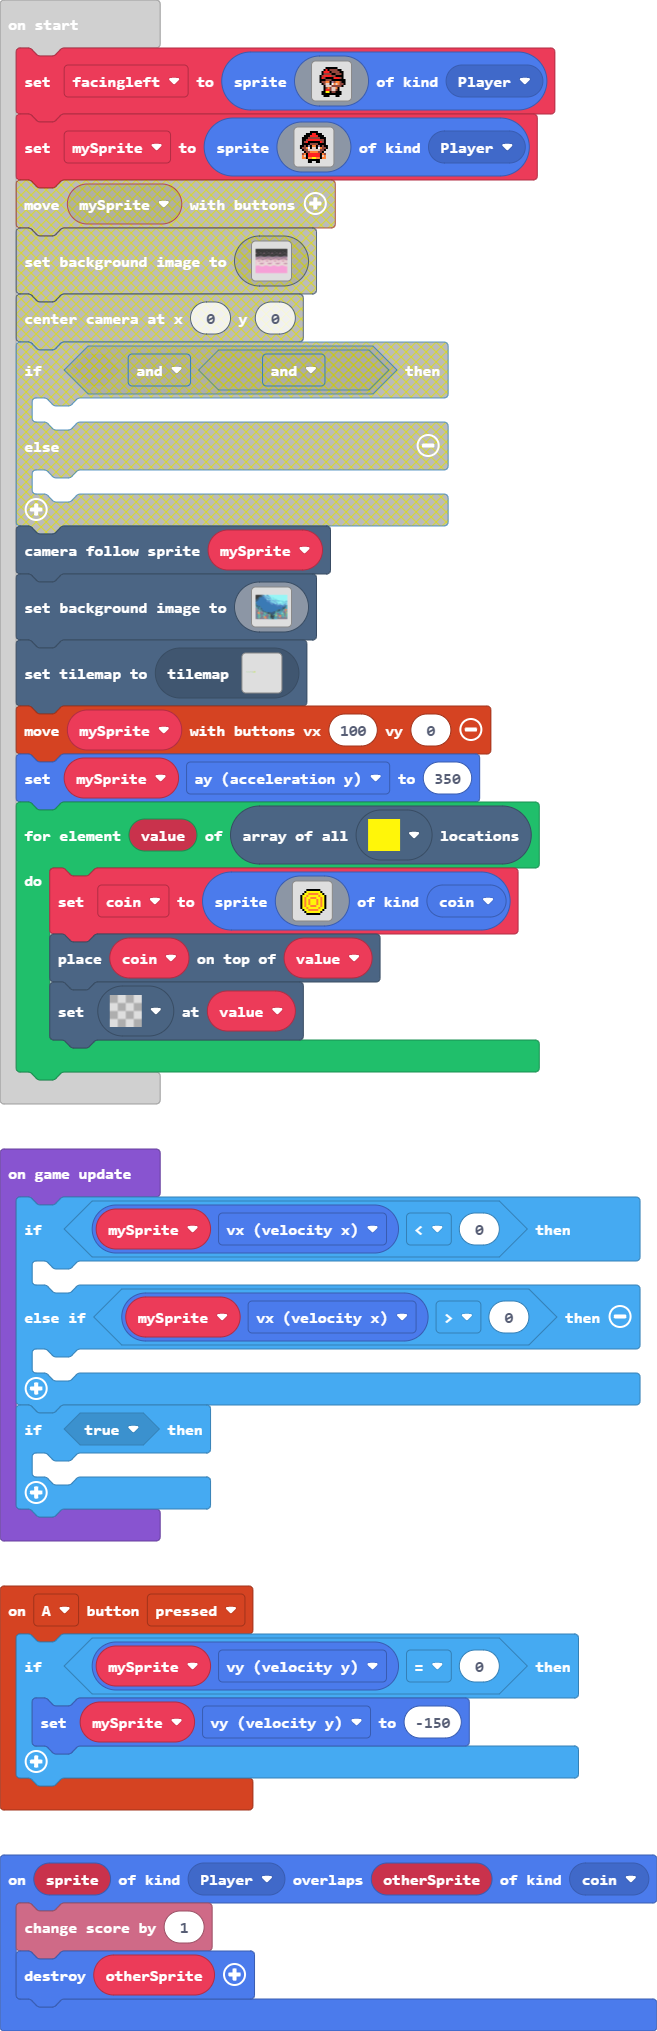
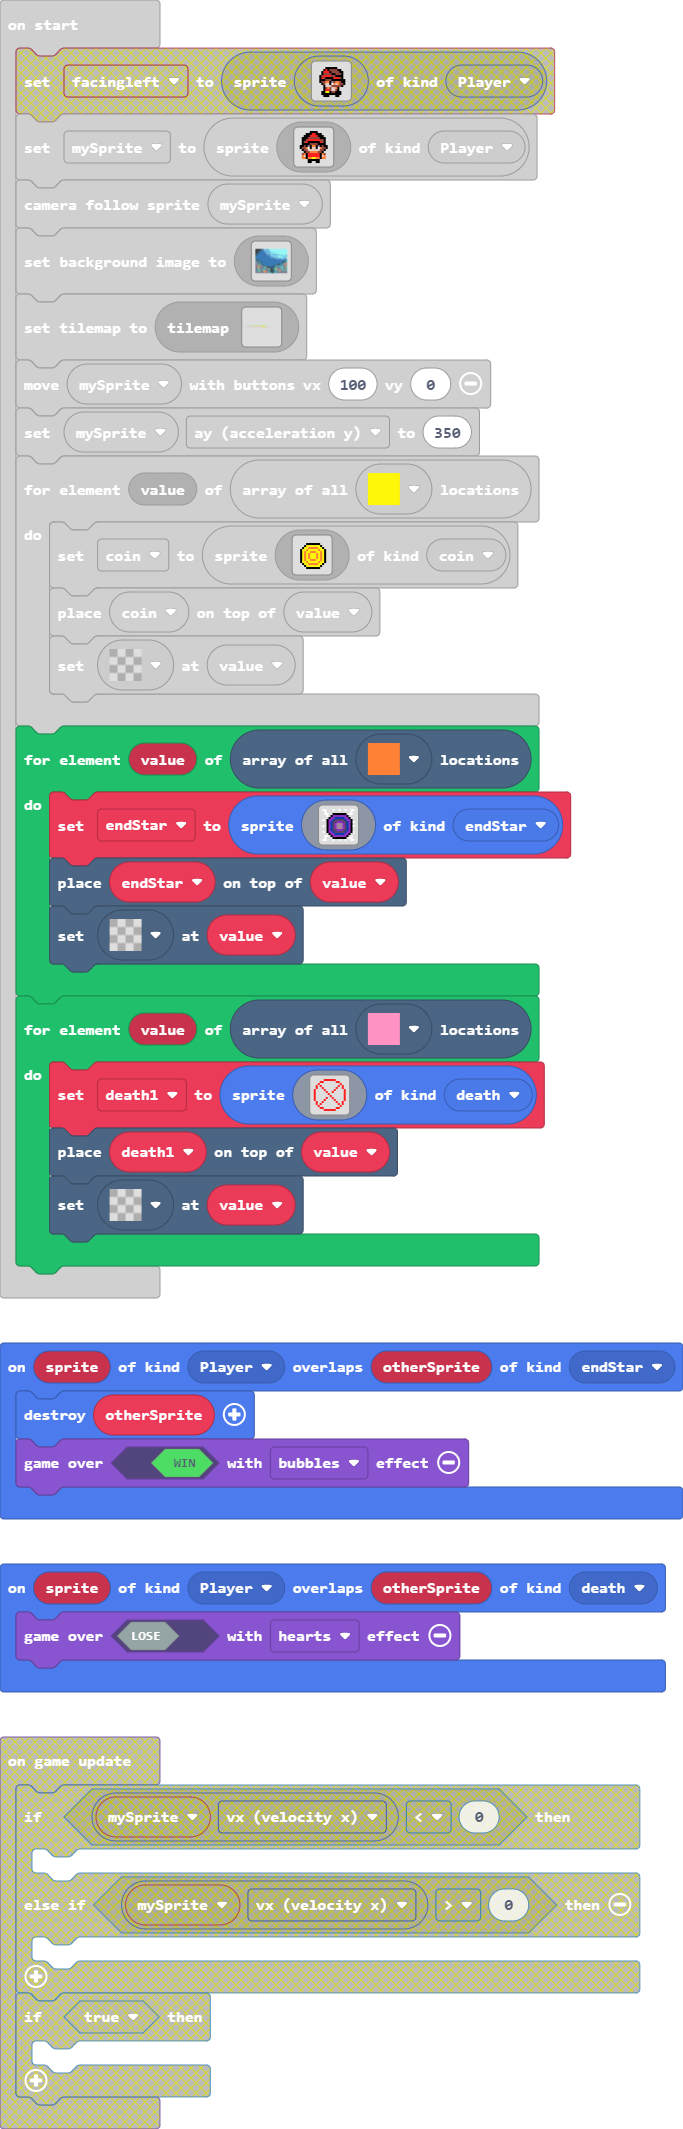
Update main.blocks, main.ts, tilemap.g.jres, tilemap.g.ts

diff --git a/tilemap.g.ts b/tilemap.g.ts
@@ -6,32 +6,76 @@ namespace myTiles {
     export const tile1 = image.ofBuffer(hex``);
     //% fixedInstance jres blockIdentity=images._tile
     export const tile2 = image.ofBuffer(hex``);
+    //% fixedInstance jres blockIdentity=images._tile
+    export const tile3 = image.ofBuffer(hex``);
+    //% fixedInstance jres blockIdentity=images._tile
+    export const tile4 = image.ofBuffer(hex``);
+    //% fixedInstance jres blockIdentity=images._tile
+    export const tile5 = image.ofBuffer(hex``);
 
     helpers._registerFactory("tilemap", function(name: string) {
         switch(helpers.stringTrim(name)) {
+            case "level1":
+            case "level1":return tiles.createTilemap(hex`1000100000000000000000000000000000000000000000000000000000000000000000000000000000000000000000000000000000000000000000000000000000000000000000000000000000000000000000000000000000000000000000000000000000000000000000000000000000000000000000000000000000000000000000000000000000000000000000000000000000000000000000000000000000000000000000000000000000000000000000000000000000000000000000000000000000000000000000000000000000000000000000000000000000000000000000000000000000000000000000000000000000000000000000000000000000000000`, img`
+. . . . . . . . . . . . . . . . 
+. . . . . . . . . . . . . . . . 
+. . . . . . . . . . . . . . . . 
+. . . . . . . . . . . . . . . . 
+. . . . . . . . . . . . . . . . 
+. . . . . . . . . . . . . . . . 
+. . . . . . . . . . . . . . . . 
+. . . . . . . . . . . . . . . . 
+. . . . . . . . . . . . . . . . 
+. . . . . . . . . . . . . . . . 
+. . . . . . . . . . . . . . . . 
+. . . . . . . . . . . . . . . . 
+. . . . . . . . . . . . . . . . 
+. . . . . . . . . . . . . . . . 
+. . . . . . . . . . . . . . . . 
+. . . . . . . . . . . . . . . . 
+`, [myTiles.transparency16], TileScale.Sixteen);
             case "niveau1":
[2 lines of base64/hex data omitted]
 ...............................................................................................................................................................................................................................................................
-.........................................................................2.....................................................................................................................................................................................
-........................................................................222....................................................................................................................................................................................
-.......................................................................22.2....................................................................................................................................................................................
-....2...2..............2..............................................22..2....................................................................................................................................................................................
-.222222222..........22222.............2...................22222222222222...2...................................................................................................................................................................................
-..............2..2...........2.....222222................22....................................................................................................................................................................................................
-.............222222.......2222222.2........2....22.......22....................................................................................................................................................................................................
-..........................................222222222...22222222222222222222222..................................................................................................................................................................................
-.................................2.............................................................................................................................................................................................................................
+2........................................................................2...............................................2222222222222222222222222222222222222222222222........................................................................................
+2.......................................................................222............2...............................................................................22......................................................................................
+2......................................................................22.2..........2................................2..................................................22....................................................................................
+2...2...2..............2...................................2..........22..2........2.................................22....................................................22..................................................................................
+2222222222..........22222.............2...................22222222222222...2........2...2...........................222.......................................................2222.............................................................................
+..............2..2...........2.....222222................22......................2....2...2........................2222......................................................2.................................................................................
+.............222222.......2222222.2........2....22.......22....................2222222222222......2.......2....2..22222.....................................................2..................................................................................
+..........................................222222222...22222222222222222222222.................2222222222222222222222222....................................................2...................................................................................
+.................................2........................................................................................................................................2....................................................................................
+.....................................................................................................................................2...2...2...2.......................2.....................................................................................
+....................................................................................................................................2...2...2...2...22..2...............2......................................................................................
+...................................................................................................................................2...2...2...2...2...2...............2.......................................................................................
+..................................................................................................................................2...2...2...2...2...2...............2........................................................................................
+.................................................................................................................................2...2...2...2...2...2...............2.........................................................................................
+................................................................................................................................2...2...2...2...2...2...............2..........................................................................................
+.......................................................................................................................22222222222222222222222222222.....22222222222...........................................................................................
 ...............................................................................................................................................................................................................................................................
 ...............................................................................................................................................................................................................................................................
 ...............................................................................................................................................................................................................................................................
-...............................................................................................................................................................................................................................................................
-...............................................................................................................................................................................................................................................................
-...............................................................................................................................................................................................................................................................
-...............................................................................................................................................................................................................................................................
-...............................................................................................................................................................................................................................................................
-...............................................................................................................................................................................................................................................................
-...............................................................................................................................................................................................................................................................
-`, [myTiles.transparency16,sprites.castle.tileGrass2,sprites.builtin.forestTiles0,myTiles.tile1,myTiles.tile2], TileScale.Sixteen);
+`, [myTiles.transparency16,sprites.castle.tileGrass2,sprites.builtin.forestTiles0,myTiles.tile1,myTiles.tile2,sprites.castle.tileDarkGrass2,myTiles.tile3,myTiles.tile4,myTiles.tile5], TileScale.Sixteen);
+            case "level2":
+            case "level2":return tiles.createTilemap(hex`1000100000000000000000000000000000000000000000000000000000000000000000000000000000000000000000000000000000000000000000000000000000000000000000000000000000000000000000000000000000000000000000000000000000000000000000000000000000000000000000000000000000000000000000000000000000000000000000000000000000000000000000000000000000000000000000000000000000000000000000000000000000000000000000000000000000000000000000000000000000000000000000000000000000000000000000000000000000000000000000000000000000000000000000000000000000000000`, img`
+. . . . . . . . . . . . . . . . 
+. . . . . . . . . . . . . . . . 
+. . . . . . . . . . . . . . . . 
+. . . . . . . . . . . . . . . . 
+. . . . . . . . . . . . . . . . 
+. . . . . . . . . . . . . . . . 
+. . . . . . . . . . . . . . . . 
+. . . . . . . . . . . . . . . . 
+. . . . . . . . . . . . . . . . 
+. . . . . . . . . . . . . . . . 
+. . . . . . . . . . . . . . . . 
+. . . . . . . . . . . . . . . . 
+. . . . . . . . . . . . . . . . 
+. . . . . . . . . . . . . . . . 
+. . . . . . . . . . . . . . . . 
+. . . . . . . . . . . . . . . . 
+`, [myTiles.transparency16], TileScale.Sixteen);
         }
         return null;
     })
@@ -43,6 +87,12 @@ namespace myTiles {
             case "tile1":return tile1;
             case "myTile0":
             case "tile2":return tile2;
+            case "myTile1":
+            case "tile3":return tile3;
+            case "myTile2":
+            case "tile4":return tile4;
+            case "myTile3":
+            case "tile5":return tile5;
         }
         return null;
     })

diff --git a/main.ts b/main.ts
@@ -1,35 +1,28 @@
 namespace SpriteKind {
     export const coin = SpriteKind.create()
+    export const endStar = SpriteKind.create()
+    export const death = SpriteKind.create()
 }
 controller.A.onEvent(ControllerButtonEvent.Pressed, function () {
     if (mySprite.vy == 0) {
         mySprite.vy = -150
     }
 })
+sprites.onOverlap(SpriteKind.Player, SpriteKind.endStar, function (sprite, otherSprite) {
+    otherSprite.destroy()
+    game.over(true, effects.bubbles)
+})
 sprites.onOverlap(SpriteKind.Player, SpriteKind.coin, function (sprite, otherSprite) {
     info.changeScoreBy(1)
     otherSprite.destroy()
 })
+sprites.onOverlap(SpriteKind.Player, SpriteKind.death, function (sprite, otherSprite) {
+    game.over(false, effects.hearts)
+})
+let death1: Sprite = null
+let endStar: Sprite = null
 let coin: Sprite = null
 let mySprite: Sprite = null
-let facingleft = sprites.create(img`
-    . . . . . . . . . . . . . . . . 
-    . . . . . f f f f f f . . . . . 
-    . . . . f 2 f e e e e f f . . . 
-    . . . f 2 2 2 f e e e e f f . . 
-    . . . f e e e e f f e e e f . . 
-    . . f e 2 2 2 2 e e f f f f . . 
-    . . f 2 e f f f f 2 2 2 e f . . 
-    . . f f f e e e f f f f f f f . 
-    . . f e e 4 4 f b e 4 4 e f f . 
-    . . . f e d d f 1 4 d 4 e e f . 
-    . . . . f d d d e e e e e f . . 
-    . . . . f e 4 e d d 4 f . . . . 
-    . . . . f 2 2 e d d e f . . . . 
-    . . . f f 5 5 f e e f f f . . . 
-    . . . f f f f f f f f f f . . . 
-    . . . . f f f . . . f f . . . . 
-    `, SpriteKind.Player)
 mySprite = sprites.create(img`
     . . . . . . f f f f . . . . . . 
     . . . . f f f 2 2 f f f . . . . 
@@ -196,13 +189,47 @@ for (let value of tiles.getTilesByType(assets.tile`myTile`)) {
     tiles.placeOnTile(coin, value)
     tiles.setTileAt(value, assets.tile`transparency16`)
 }
-game.onUpdate(function () {
-    if (mySprite.vx < 0) {
-    	
-    } else if (mySprite.vx > 0) {
-    	
-    }
-    if (true) {
-    	
-    }
-})
+for (let value of tiles.getTilesByType(assets.tile`myTile0`)) {
+    endStar = sprites.create(img`
+        1 1 . . . 1 . . 1 . . 1 . . 1 1 
+        . 1 . . . . . . . . . . . . 1 . 
+        . 1 1 . . f f f f f f f . 1 1 . 
+        . . 1 . f a a a a a a a f . . . 
+        . . . f a a 8 8 8 8 8 a a f . . 
+        1 . f a a 8 c c c c c 8 a a f . 
+        . . f a 8 c c a a a c c 8 a f 1 
+        . . f a 8 c a b b b a c 8 a f . 
+        1 . f a 8 c a b b b a c 8 a f 1 
+        . . f a 8 c a b b b a c 8 a f . 
+        . . f a 8 c c a a a c c 8 a f . 
+        1 . f a a 8 c c c c c 8 a a f 1 
+        . . . f a a 8 8 8 8 8 a a f . . 
+        . 1 1 . f a a a a a a a f . 1 . 
+        . 1 . . . f f f f f f f . 1 1 . 
+        1 1 . . . 1 . . 1 . . 1 . . 1 1 
+        `, SpriteKind.endStar)
+    tiles.placeOnTile(endStar, value)
+    tiles.setTileAt(value, assets.tile`transparency16`)
+}
+for (let value of tiles.getTilesByType(assets.tile`myTile3`)) {
+    death1 = sprites.create(img`
+        . . . . . 2 2 2 2 2 2 . . . . . 
+        . . . 2 2 . . . . . . 2 2 . . . 
+        . . 2 . . . . . . . . . . 2 . . 
+        . 2 . 2 . . . . . . . . 2 . 2 . 
+        . 2 . . 2 . . . . . . 2 . . 2 . 
+        2 . . . . 2 . . . . 2 . . . . 2 
+        2 . . . . . 2 . . 2 . . . . . 2 
+        2 . . . . . . 2 . . . . . . . 2 
+        2 . . . . . . . 2 . . . . . . 2 
+        2 . . . . . 2 . . 2 . . . . . 2 
+        2 . . . . 2 . . . . 2 . . . . 2 
+        . 2 . . 2 . . . . . . 2 . . 2 . 
+        . 2 . 2 . . . . . . . . 2 . 2 . 
+        . . 2 . . . . . . . . . . 2 . . 
+        . . . 2 2 . . . . . . 2 2 . . . 
+        . . . . . 2 2 2 2 2 2 . . . . . 
+        `, SpriteKind.death)
+    tiles.placeOnTile(death1, value)
+    tiles.setTileAt(value, assets.tile`transparency16`)
+}
